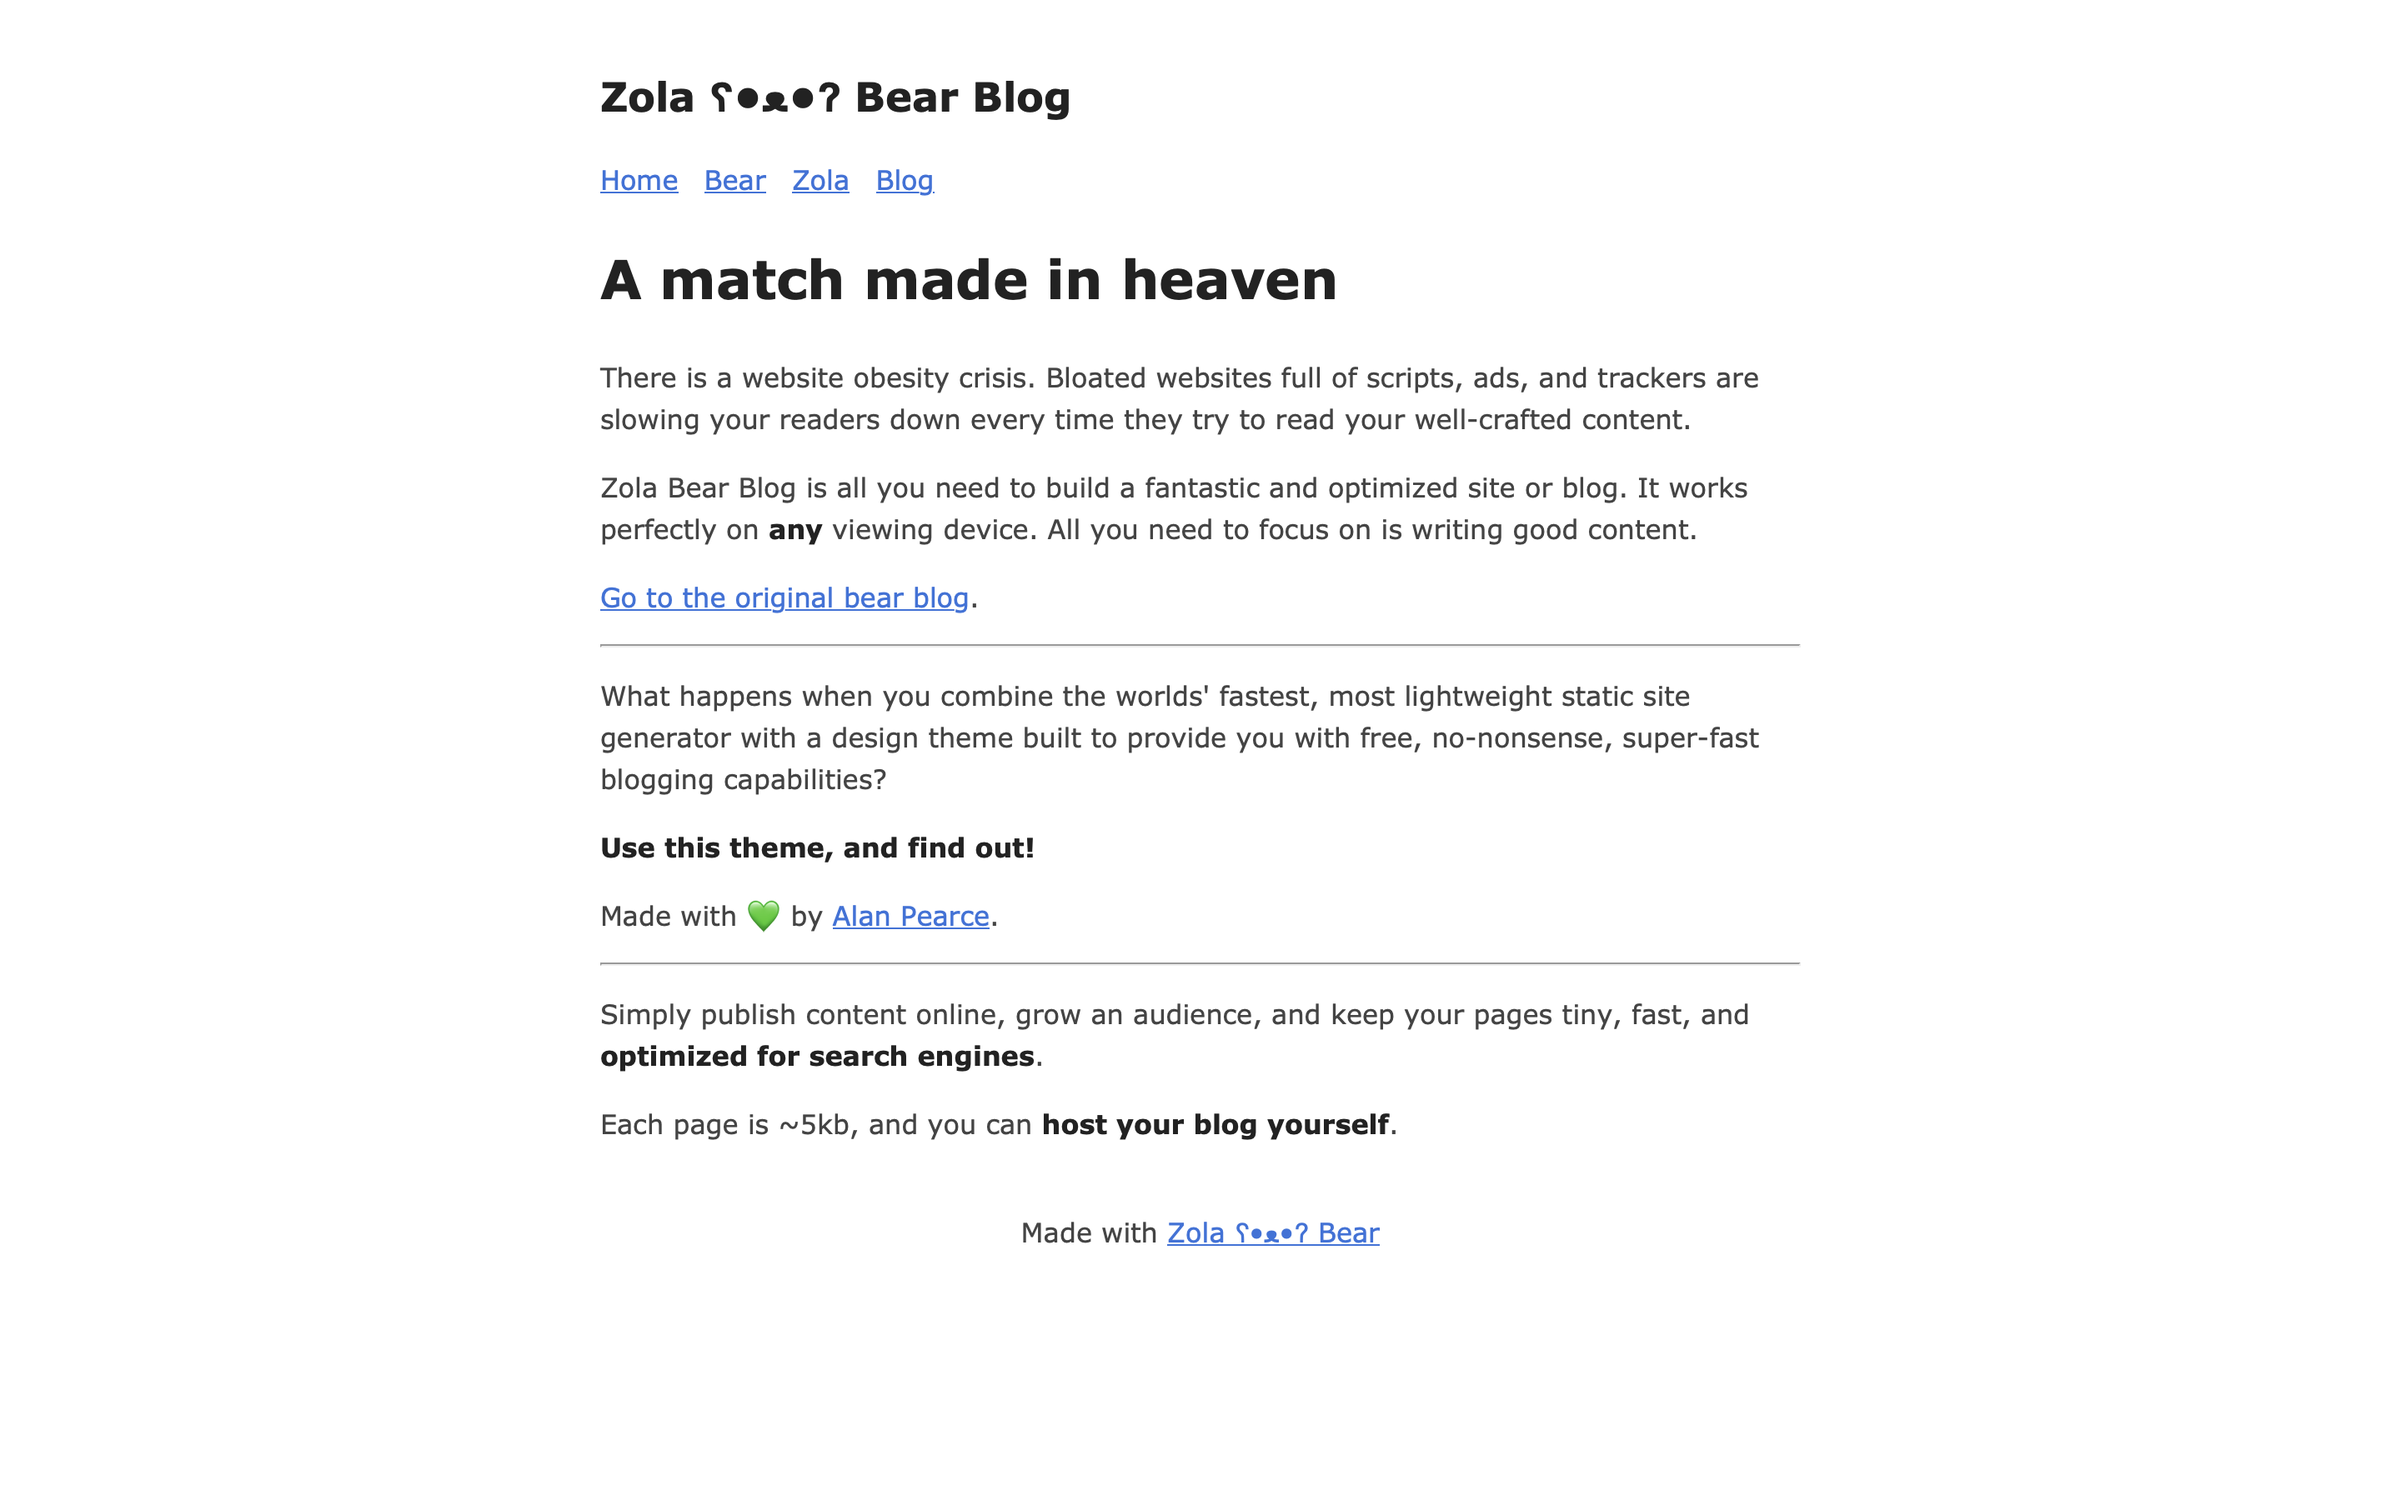
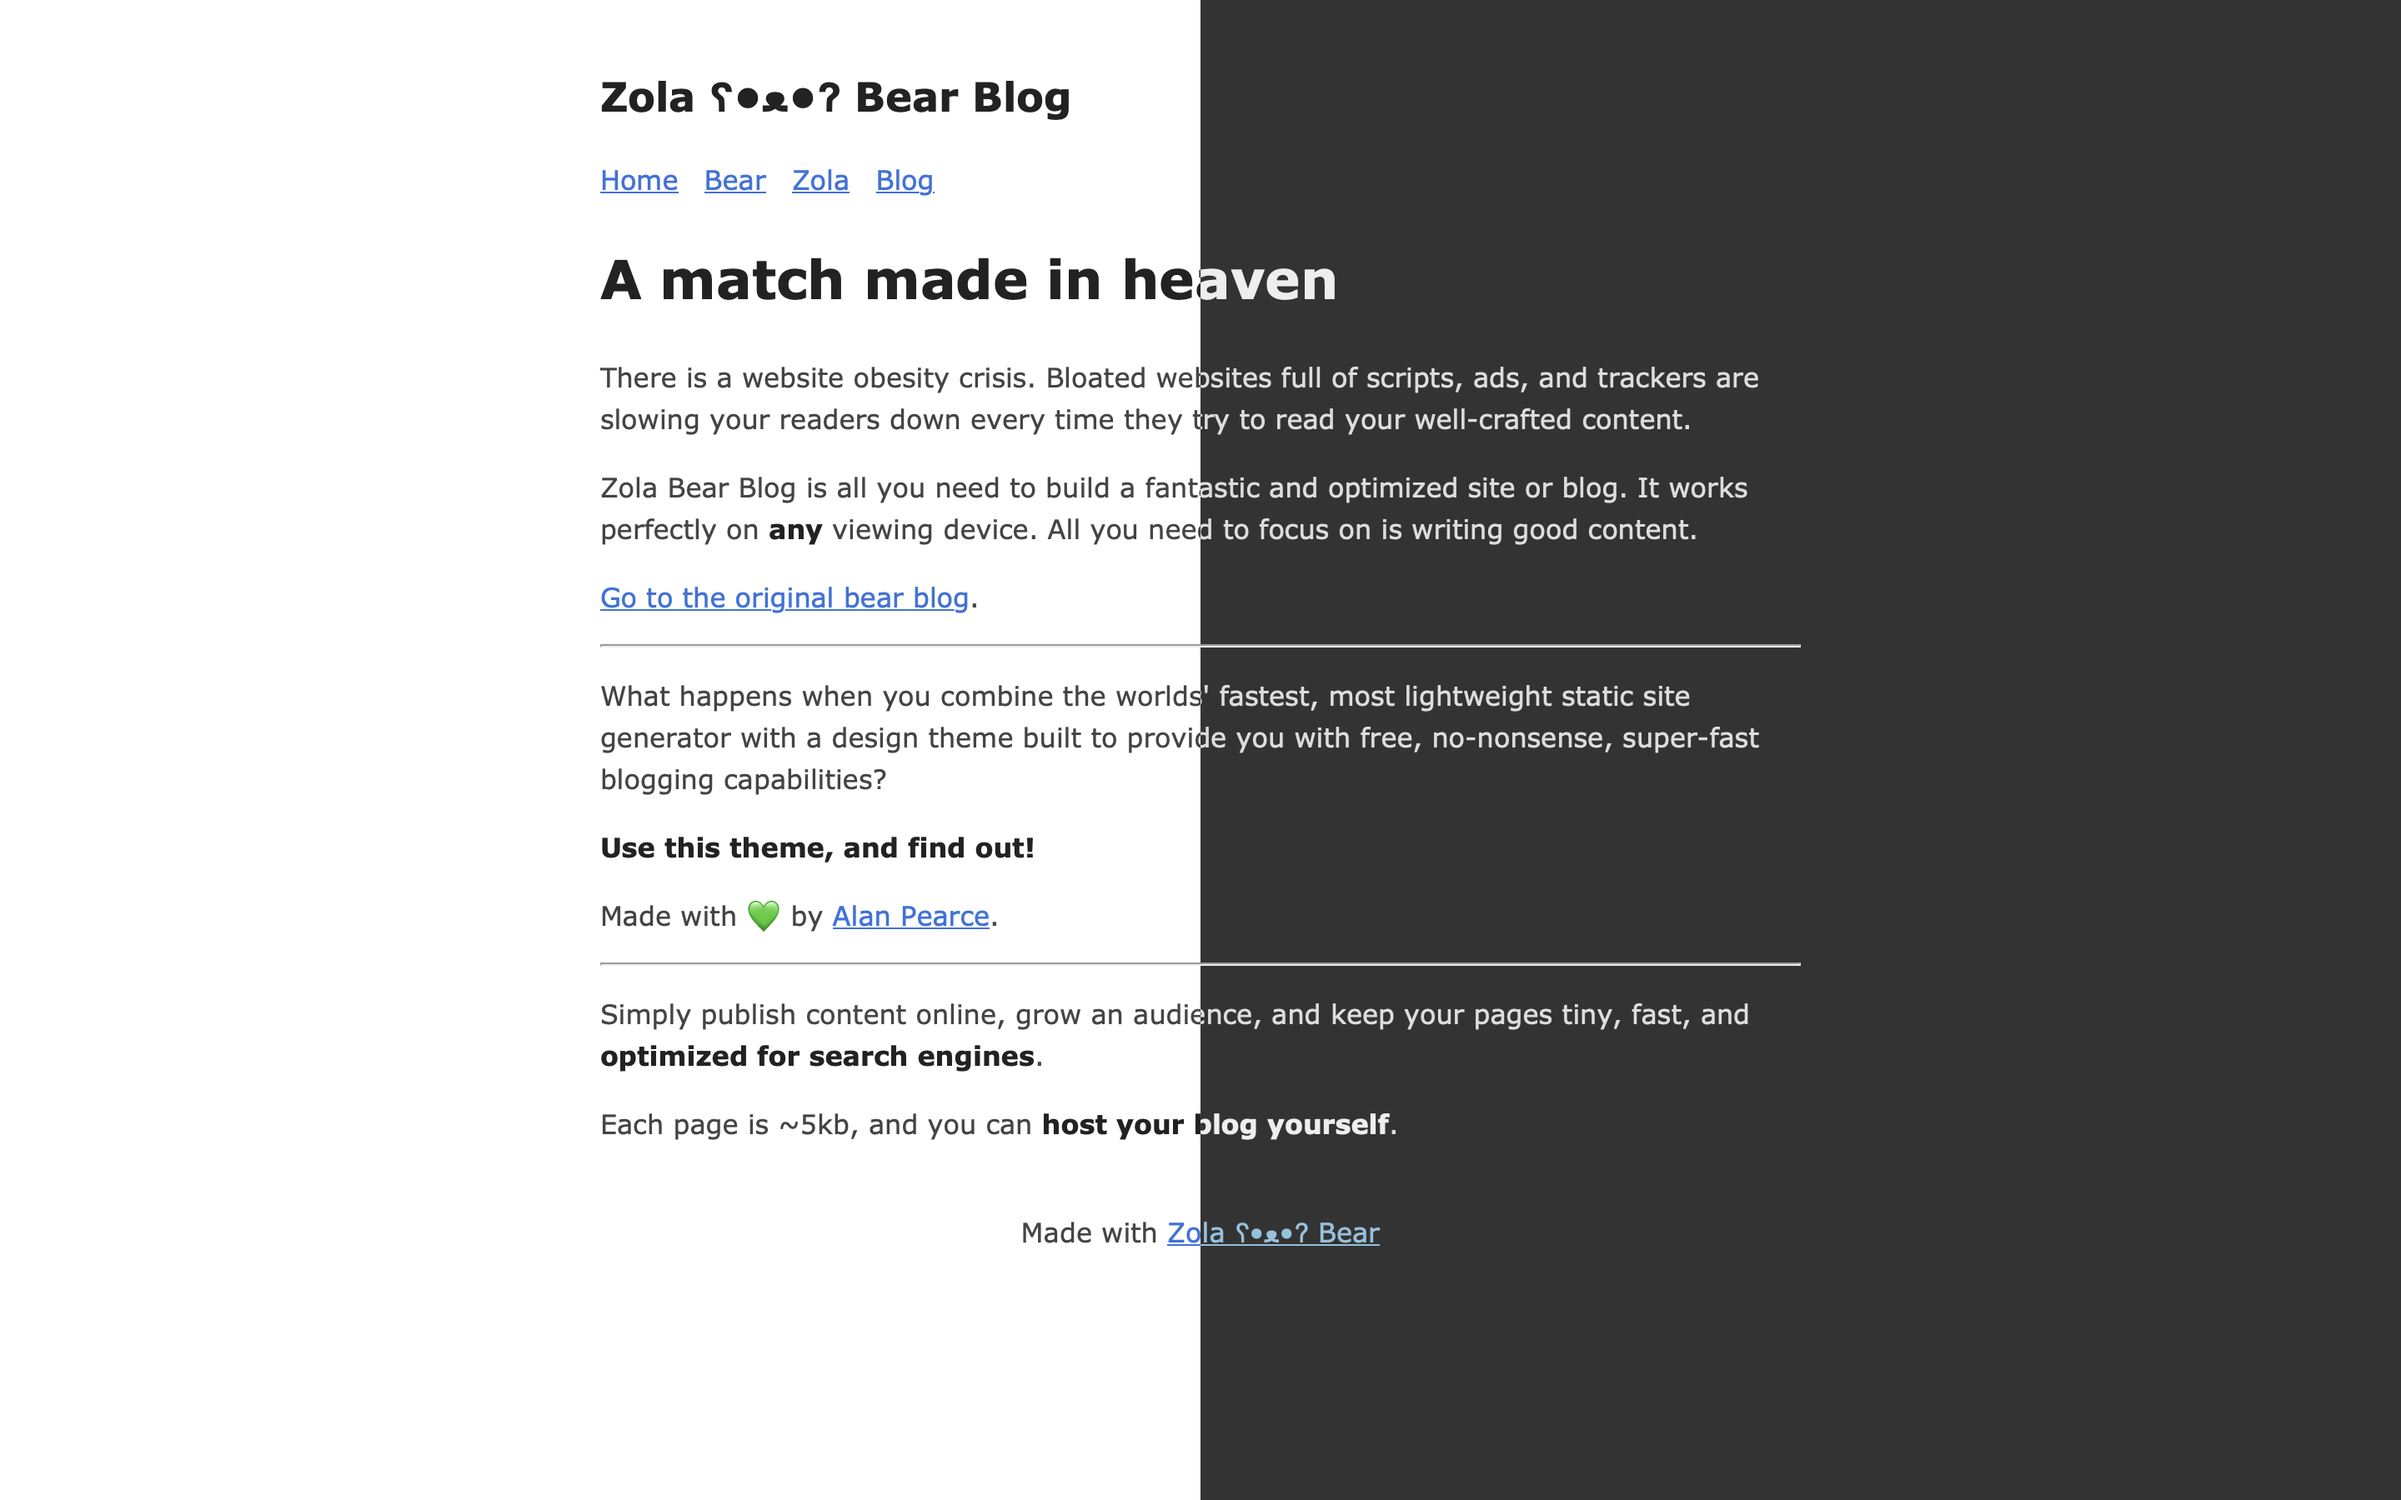
Merge dark/light screenshots into one

diff --git a/README.md b/README.md
@@ -10,13 +10,9 @@
 
 For a current & working demo of this theme, please check out <https://zola-bearblog.netlify.app/> 🎯.
 
-## Screenshots
+## Screenshot
 
-⬜ [Light][light-screenshot]
-![light mode screenshot][light-screenshot]
-
-⬛ [Dark][dark-screenshot]
-![dark mode screenshot][dark-screenshot]
+![Screenshot][screenshot]
 
 When the user's browser is running »dark mode«, the dark color scheme will be used automatically. The default is the light/white color scheme. Check out the [`style.html`](https://codeberg.org/alanpearce/zola-bearblog/src/branch/main/templates/style.html)-file for the implementation.
 
@@ -84,5 +80,4 @@ A special thank you goes out to [Herman](https://herman.bearblog.dev), for creat
 [MIT License](http://en.wikipedia.org/wiki/MIT_License) © [Alan Pearce](https://www.alanpearce.eu/)
 
 [zola-setup-guide]: https://www.getzola.org/documentation/getting-started/installation/
-[light-screenshot]: https://codeberg.org/alanpearce/zola-bearblog/raw/branch/main/screenshot.png
-[dark-screenshot]: https://codeberg.org/alanpearce/zola-bearblog/raw/branch/main/screenshot-dark.png
+[screenshot]: https://codeberg.org/alanpearce/zola-bearblog/raw/branch/main/screenshot.png
